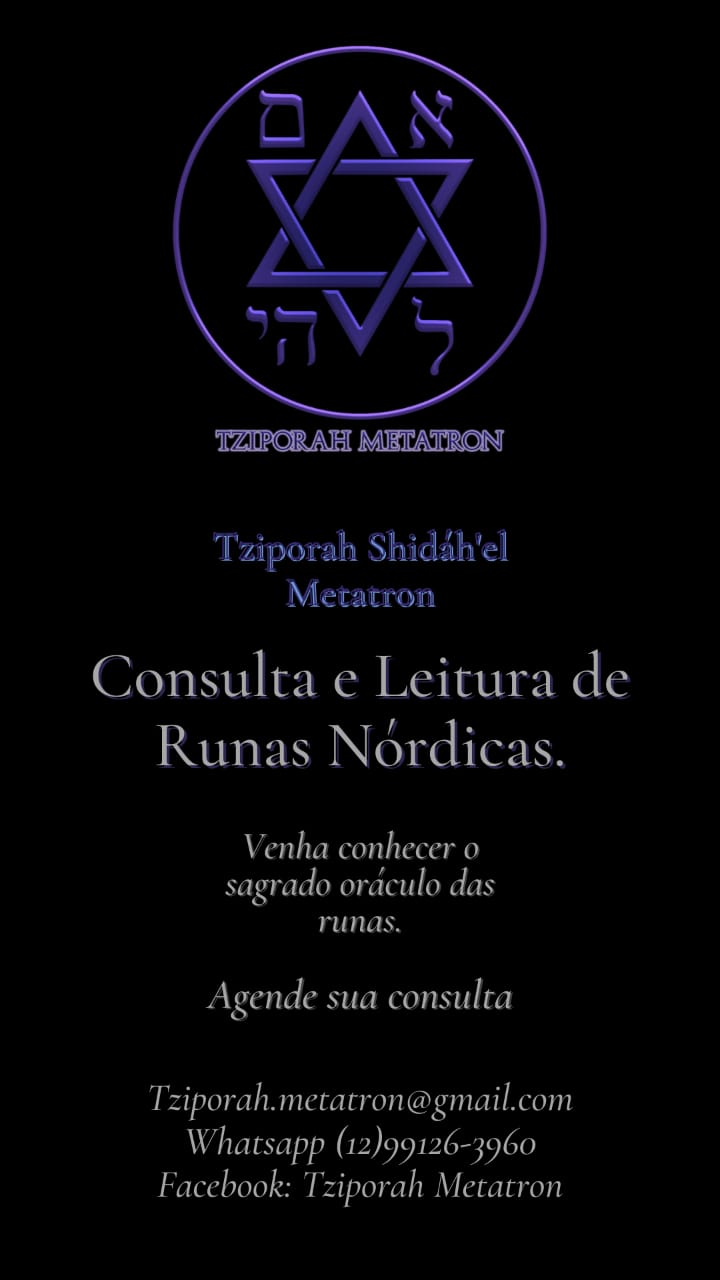
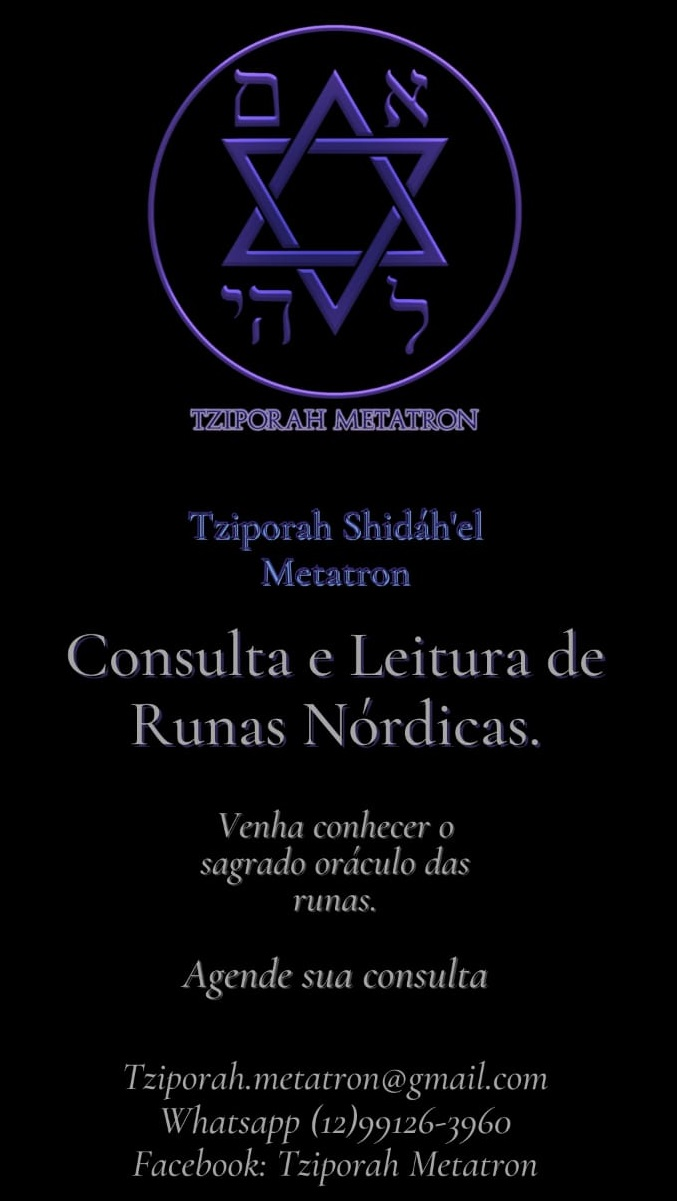
update on homepage text and content

Changed region(s): [[0.0931, 0.4005, 0.8996, 0.9858], [0.2171, 0.0, 0.7755, 0.3697], [0.7445, 0.8318, 0.8065, 0.8626]]

diff --git a/CSS/styles.css b/CSS/styles.css
@@ -81,13 +81,43 @@ main {
 main.mainHome {
     display: block;
     justify-content: center;
+    text-align: center;
 
 }
 
+#textMain {
+    font-family: Brush Script MT,
+     Brush Script Std, cursive;
+     padding-left: 50px;
+     font-weight: bold;
+     color: rgb(27, 26, 26);
+     text-shadow: -1px 0 rgb(157, 56, 190), 
+     0 1px rgb(157, 56, 190), 1px 0 rgb(157, 56, 90), 0 -1px black;
+    margin-top: 0;
+    font-size: 1.8em;
+    margin-left: auto;
+    margin-right: auto;
+}
+
+#textMain1 {
+    font-family: Georgia, 'Times New Roman', Times, serif;
+     padding-left: 50px;
+     font-weight: bold;
+     color: rgb(27, 26, 26);
+     text-shadow: -1px 0 rgb(157, 56, 190), 
+     0 1px rgb(157, 56, 190), 1px 0 rgb(157, 56, 90), 0 -1px black;
+    margin-top: 0;
+    font-size: 2.0em;
+    font-weight: bold;
+    margin-left: auto;
+    margin-right: auto;
+}
+
 #rightpic {
-    width: 50%;
-    align-content: center;
-    right: 50%;
+    width: 45%;
+    display: block;
+    margin-left: auto;
+    margin-right: auto;
 }
 
 body {
@@ -122,7 +152,7 @@ label {
 }
 
 legend {
-    color: #8a30a8;
+    color: rgb(138, 48, 168);
     font-size: 2.5em; 
     font-weight: 700;
 }

diff --git a/index.html b/index.html
@@ -36,11 +36,14 @@
         
         <main class="mainHome">
 
-            <h2 style="font-family: 'Times New Roman', Times, serif; color: #8a30a8;"> Magista, oraculista e ocultista.</h2>
-            <p>Realizo ritos nas seguintes áreas: Amor ( adoçamentos, magnetismo pessoal entre outros.)<br>
+            <h2 id="textMain1"> Magista, oraculista e ocultista.</h2>
+            <br>
+            <p id="textMain">Realizo ritos nas seguintes áreas: Amor ( adoçamentos, magnetismo pessoal entre outros.)<br>
                  Prosperidade, Abertura de Caminhos, Limpeza, Luxúria, Sedução, Amarração, Saude.</p>
-
+                <br>
                     <img id="rightpic" src="/Images/background1.jpg" alt="">
+                <br>
+                    
                  
         </main>
         <script type="text/javascript" src="script.js"></script>
